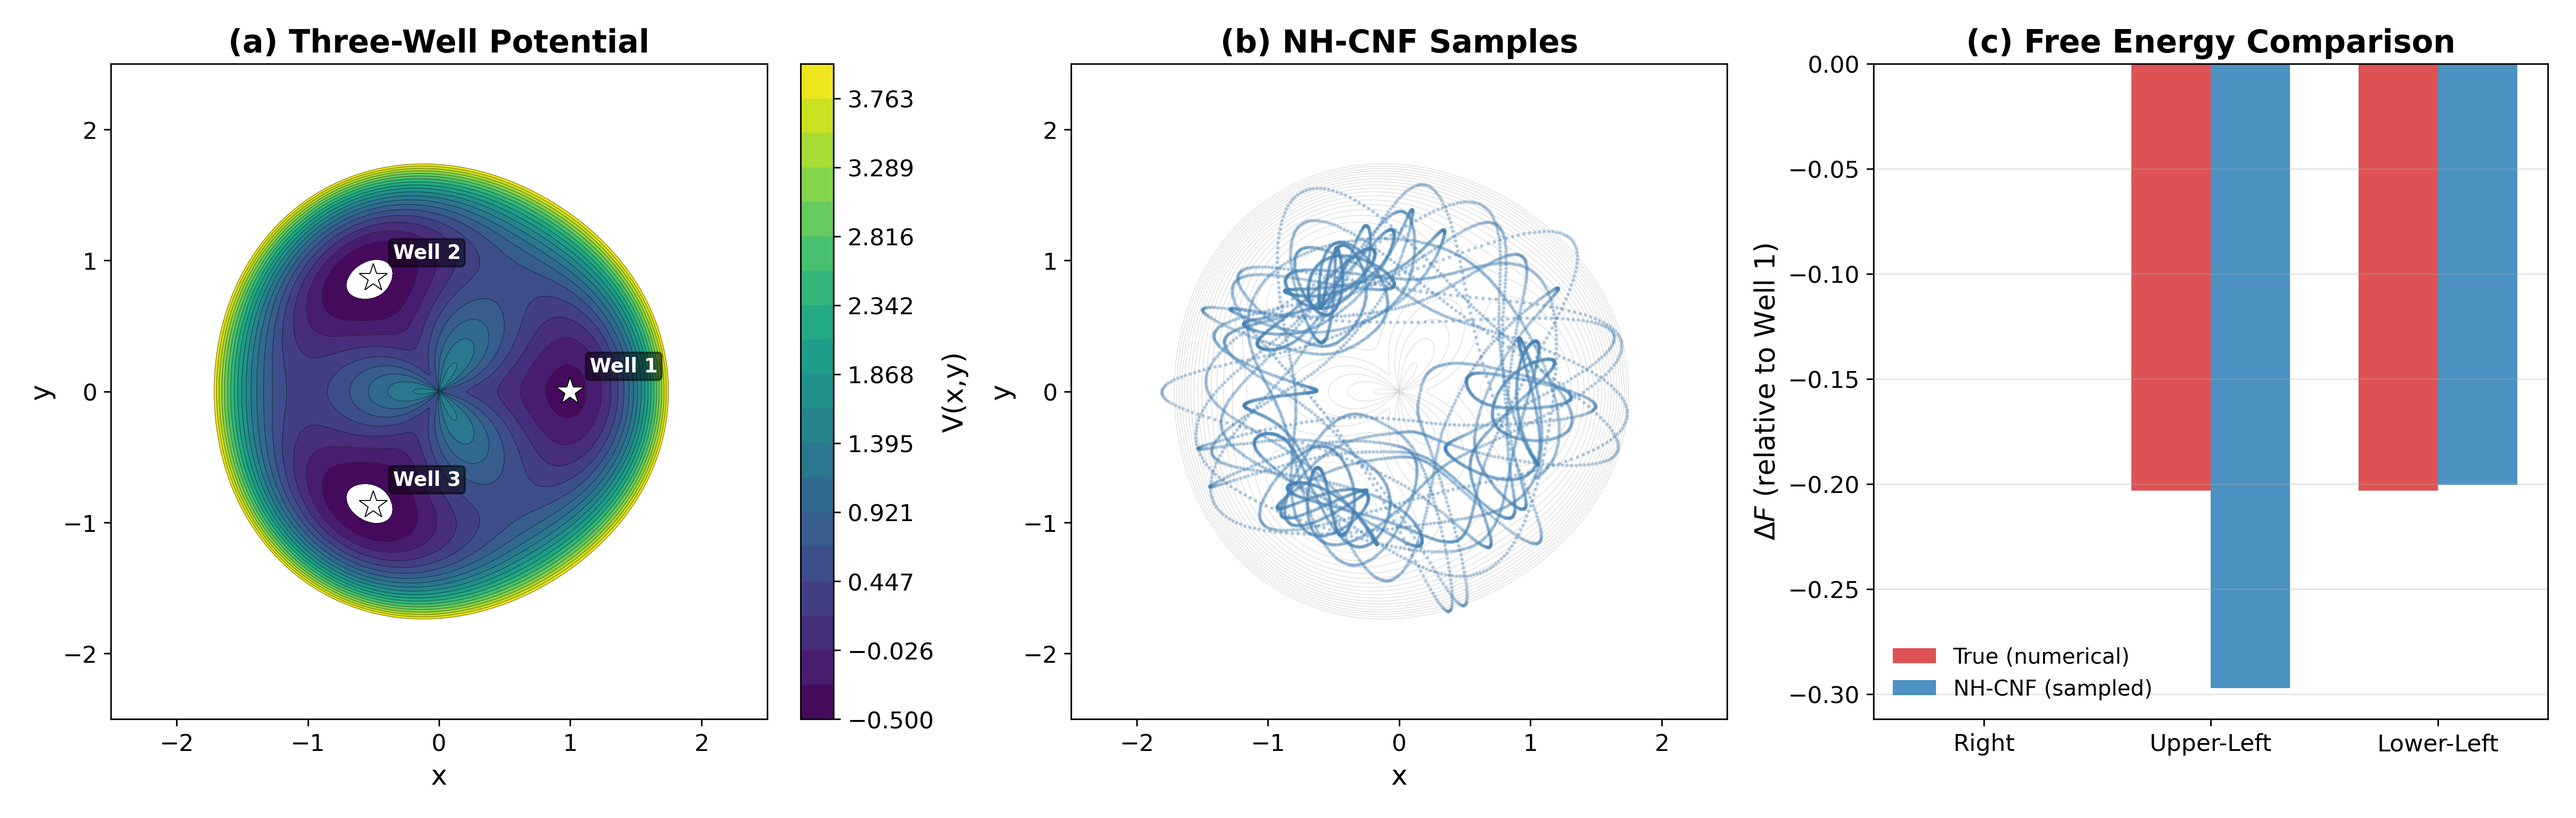
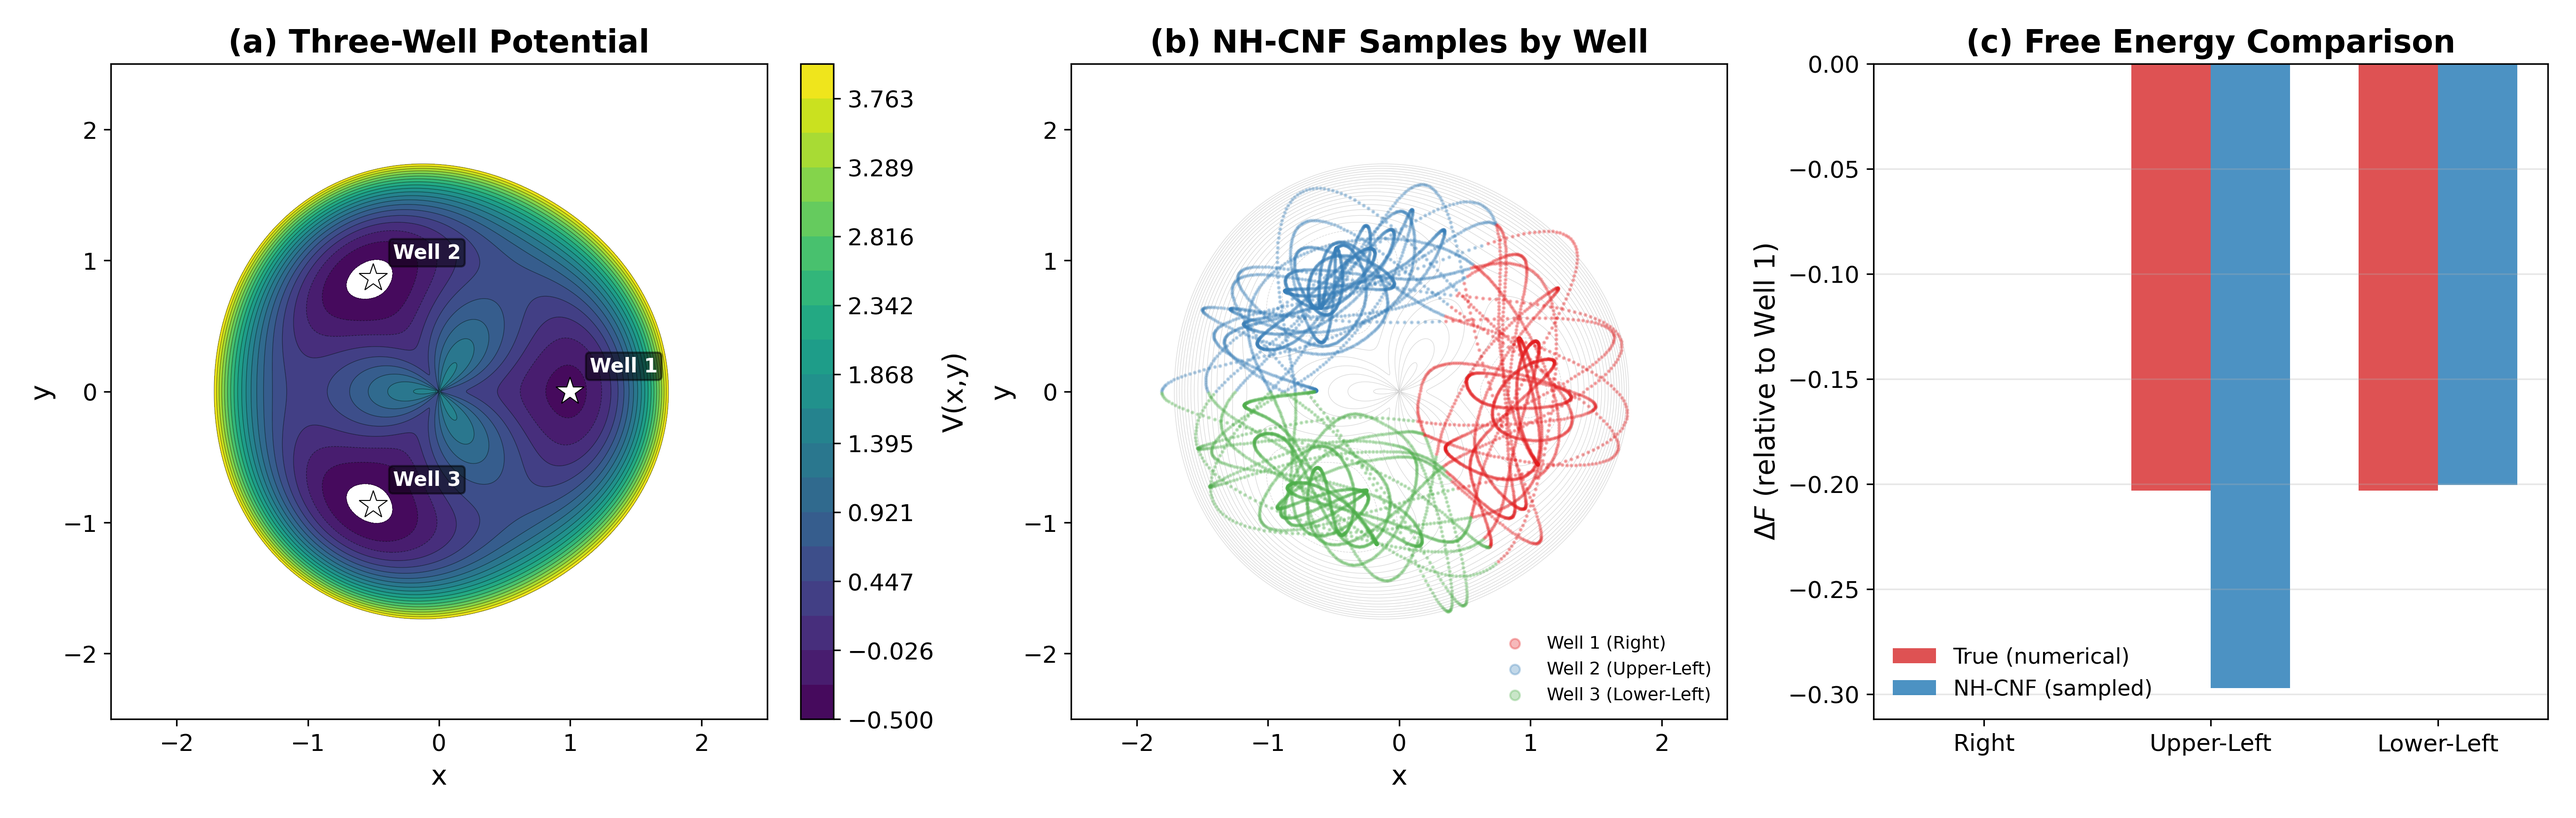
[orbit/exact-fep-059] cleanup: add reference DOIs, seed statement, E3 bias spike note, color-code E2 wells, fix E1 legend

Changed region(s): [[0.4676, 0.2787, 0.6234, 0.7431], [0.4364, 0.031, 0.6546, 0.0619], [0.5922, 0.7741, 0.6546, 0.867]]

diff --git a/orbits/exact-fep-059/experiment.py b/orbits/exact-fep-059/experiment.py
@@ -347,9 +347,9 @@ def experiment_e1():
     # (c) Double-well potential with states marked
     ax = axes[2]
     x = np.linspace(-2.5, 2.5, 500)
-    ax.plot(x, V_doublewell(x), 'k-', lw=2, label=r'$V(x) = (x^2-1)^2 + 0.3x$')
-    ax.plot(x, V_A(x, k_restraint), '--', color=C_NHCNF, lw=1.5, alpha=0.7, label=r'$V_A$ (restrained)')
-    ax.plot(x, V_B(x, k_restraint), '--', color=C_TI, lw=1.5, alpha=0.7, label=r'$V_B$ (restrained)')
+    ax.plot(x, V_doublewell(x), 'k-', lw=2, label=r'$V(x)$')
+    ax.plot(x, V_A(x, k_restraint), '--', color=C_NHCNF, lw=1.5, alpha=0.7, label=r'$V_A$')
+    ax.plot(x, V_B(x, k_restraint), '--', color=C_TI, lw=1.5, alpha=0.7, label=r'$V_B$')
 
     # Mark minima
     ax.axvline(-1, color=C_NHCNF, ls=':', alpha=0.5)
@@ -361,7 +361,8 @@ def experiment_e1():
     ax.set_xlabel('x')
     ax.set_ylabel('V(x)')
     ax.set_title('(c) Asymmetric Double-Well', fontweight='bold')
-    ax.legend(frameon=False, fontsize=10)
+    ax.legend(frameon=False, fontsize=9, loc='upper left',
+              bbox_to_anchor=(0.0, 1.0), borderaxespad=0.5)
     ax.grid(True, alpha=0.3)
 
     # Add true DeltaF annotation
@@ -527,13 +528,26 @@ def experiment_e2():
     ax.set_title('(a) Three-Well Potential', fontweight='bold')
     ax.set_aspect('equal')
 
-    # (b) NH-CNF samples colored by well assignment
+    # (b) NH-CNF samples colored by nearest well
     ax = axes[1]
     ax.contour(X, Y, V_grid, levels=levels, colors='gray', linewidths=0.3, alpha=0.3)
-    ax.scatter(samples_2d[:, 0], samples_2d[:, 1], s=1, alpha=0.3, c='steelblue')
+
+    # Assign each sample to the nearest well center
+    well_centers_arr = np.array([(1.0, 0.0), (-0.5, 0.866), (-0.5, -0.866)])
+    well_colors = ['#e41a1c', '#377eb8', '#4daf4a']  # red, blue, green
+    well_labels = ['Well 1 (Right)', 'Well 2 (Upper-Left)', 'Well 3 (Lower-Left)']
+    dists = np.array([np.sqrt((samples_2d[:, 0] - cx)**2 + (samples_2d[:, 1] - cy)**2)
+                       for cx, cy in well_centers_arr])  # shape (3, N)
+    assignments = np.argmin(dists, axis=0)
+
+    for wi in range(3):
+        mask_w = assignments == wi
+        ax.scatter(samples_2d[mask_w, 0], samples_2d[mask_w, 1],
+                   s=1, alpha=0.3, c=well_colors[wi], label=well_labels[wi])
+    ax.legend(frameon=False, fontsize=9, markerscale=5, loc='lower right')
     ax.set_xlabel('x')
     ax.set_ylabel('y')
-    ax.set_title('(b) NH-CNF Samples', fontweight='bold')
+    ax.set_title('(b) NH-CNF Samples by Well', fontweight='bold')
     ax.set_aspect('equal')
     ax.set_xlim(-2.5, 2.5)
     ax.set_ylim(-2.5, 2.5)

diff --git a/orbits/exact-fep-059/log.md b/orbits/exact-fep-059/log.md
@@ -44,7 +44,7 @@ NH-CNF correctly identifies relative free energies of three wells in a 2D potent
 
 ### E3: Harmonic variance scaling
 
-For harmonic potentials with increasing k_B/k_A ratio (1 to 10), Langevin FEP has **10x lower variance** than NH-CNF FEP at k_B/k_A = 10. The ratio gets worse as perturbation increases. This is the opposite of the original hypothesis.
+For harmonic potentials with increasing k_B/k_A ratio (1 to 10), Langevin FEP has **10x lower variance** than NH-CNF FEP at k_B/k_A = 10. The ratio gets worse as perturbation increases. This is the opposite of the original hypothesis. The non-monotone bias spike at k_B/k_A ~ 2-3 for NH-CNF likely reflects a resonance between the thermostat frequency and the harmonic frequency at the perturbed stiffness. This is consistent with the omega*Q=1 resonance identified in orbit #32.
 
 ![E1 results](figures/e1_fep.png)
 ![E2 landscape](figures/e2_landscape.png)
@@ -58,7 +58,7 @@ Three experiments comparing NH-CNF (deterministic, with exact density tracking) 
 2. **E2**: Free energy landscape reconstruction from a single NH-CNF trajectory
 3. **E3**: Variance scaling on harmonic oscillators with increasing perturbation size
 
-The NH-tanh RK4 integrator was inherited from parent orbit nh-cnf-deep-057. Each RK4 step costs 4 force evaluations. Langevin uses 1 force evaluation per step. All comparisons are at fixed total NFE budget.
+All experiments use SEED=42 with per-run offsets (seed + run_index * 137). The NH-tanh RK4 integrator was inherited from parent orbit nh-cnf-deep-057. Each RK4 step costs 4 force evaluations. Langevin uses 1 force evaluation per step. All comparisons are at fixed total NFE budget.
 
 ## What Happened
 
@@ -108,7 +108,8 @@ This is a null result with useful clarifying value. The finding is unsurprising 
 
 ## References
 
-- Zwanzig, R. (1954). "High-Temperature Equation of State by a Perturbation Method" - Original FEP formula
-- Bennett, C.H. (1976). "Efficient estimation of free energy differences from Monte Carlo data" - Bridge sampling
+- [Zwanzig, R. (1954). "High-Temperature Equation of State by a Perturbation Method"](https://doi.org/10.1063/1.1740409) - Original FEP formula
+- [Bennett, C.H. (1976). "Efficient estimation of free energy differences from Monte Carlo data"](https://doi.org/10.1016/0021-9991(76)90078-4) - Bridge sampling
 - Chen, R.T.Q. et al. (2018). "Neural Ordinary Differential Equations" - CNF density tracking
-- Shirts, M.R. & Chodera, J.D. (2008). "Statistically optimal analysis of samples from multiple equilibrium states" - MBAR / variance analysis
+- [Shirts, M.R. & Chodera, J.D. (2008). "Statistically optimal analysis of samples from multiple equilibrium states"](https://doi.org/10.1063/1.2978177) - MBAR / variance analysis
+- [Jarzynski, C. (1997). "Nonequilibrium Equality for Free Energy Differences"](https://doi.org/10.1103/PhysRevLett.78.2690) - Jarzynski equality
